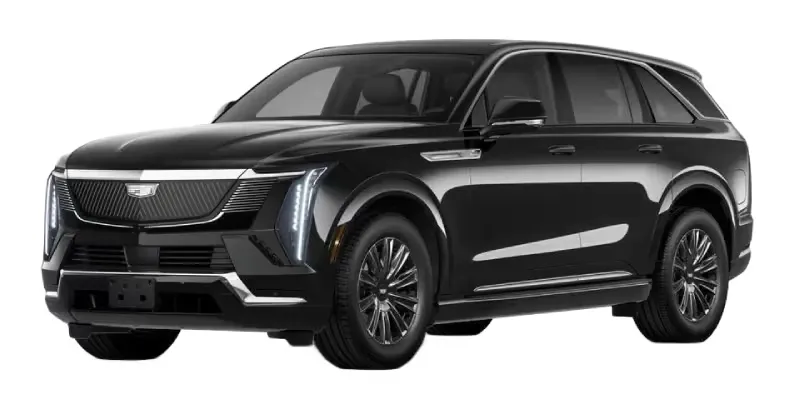
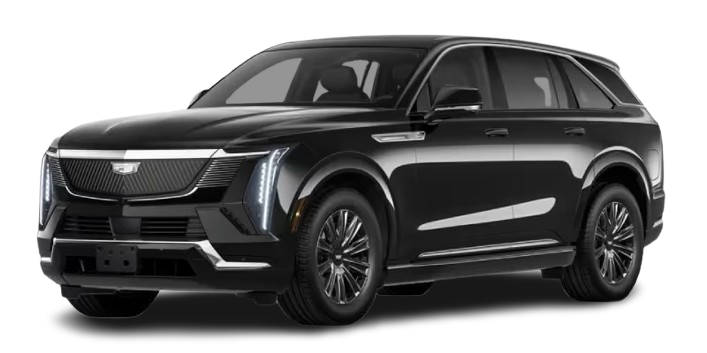
fix: fleet image display...

diff --git a/solnet-limo-client/src/index.html b/solnet-limo-client/src/index.html
@@ -25,9 +25,7 @@
   <link rel="icon" type="image/x-icon" href="favicon.ico">
 
   <!-- Preload LCP hero image -->
-  <link rel="preload" as="image" href="assets/images/hero/hero.webp" type="image/webp"
-        imagesrcset="assets/images/hero/hero-400w.webp 400w, assets/images/hero/hero.webp 577w"
-        imagesizes="100vw">
+  <link rel="preload" as="image" href="assets/images/hero/hero-400w.webp" type="image/webp">
 
   <!-- Google Fonts — non-blocking with font-display:swap -->
   <link rel="preconnect" href="https://fonts.googleapis.com">